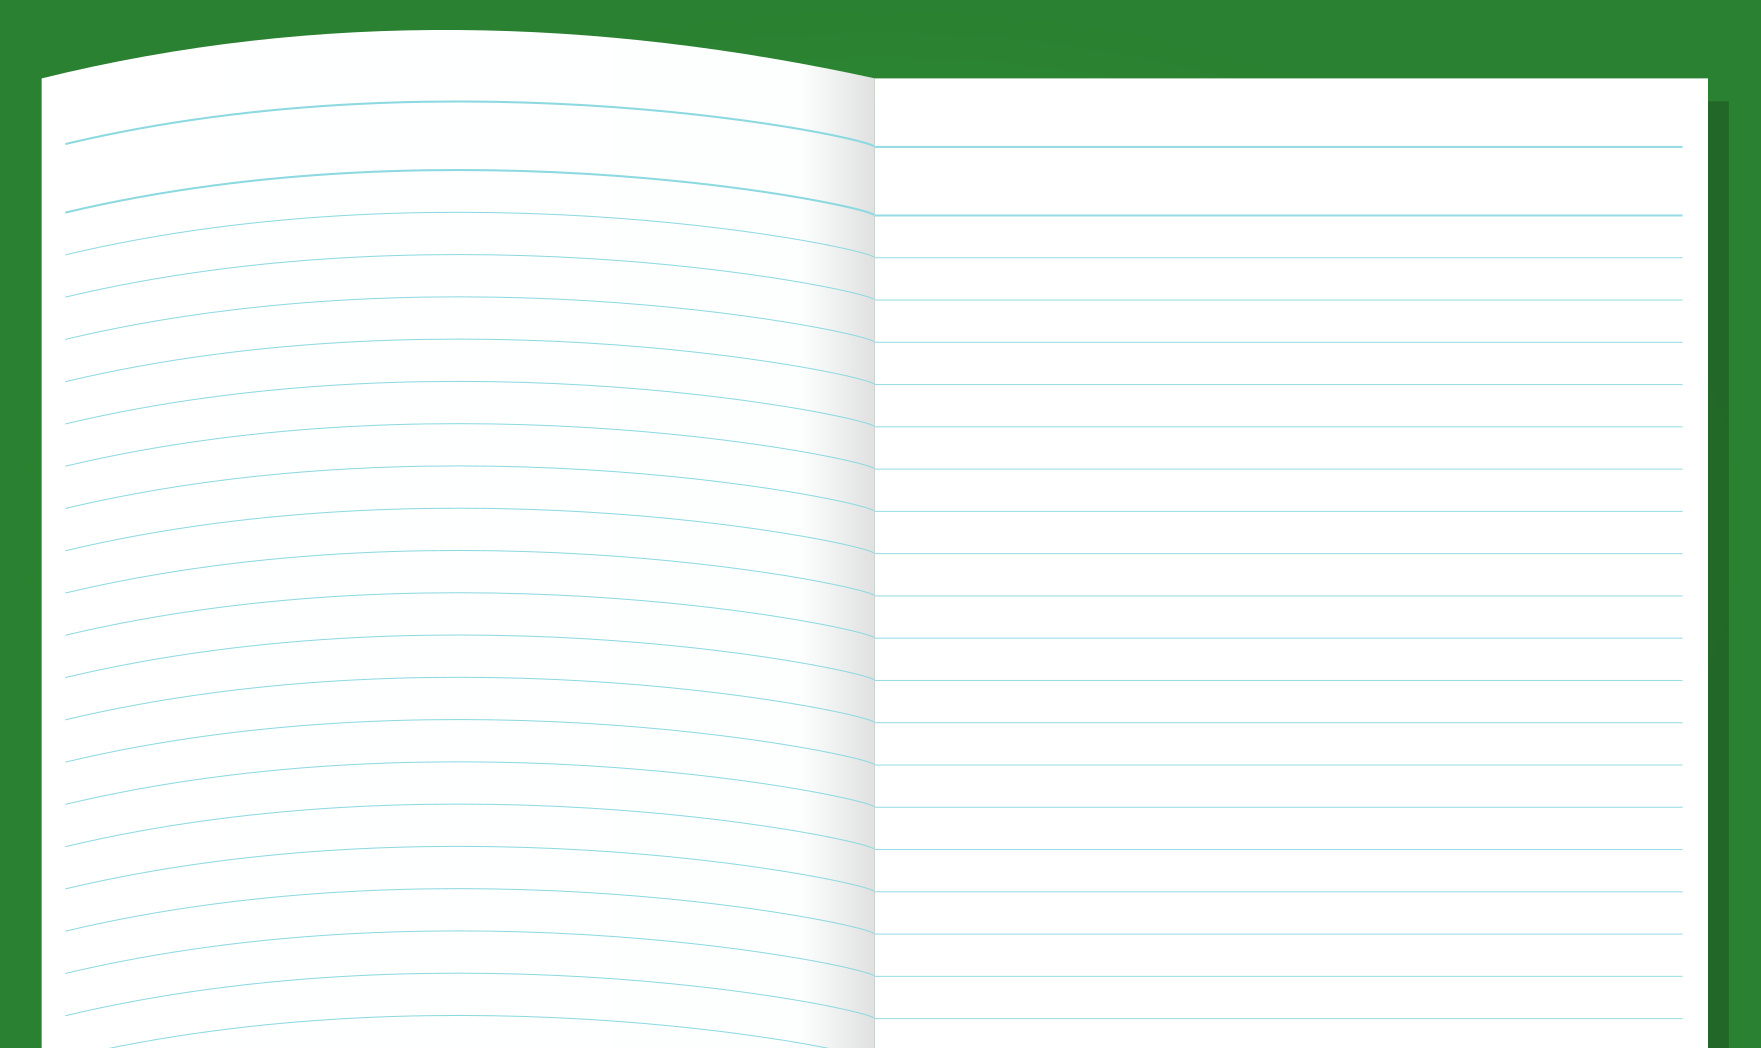
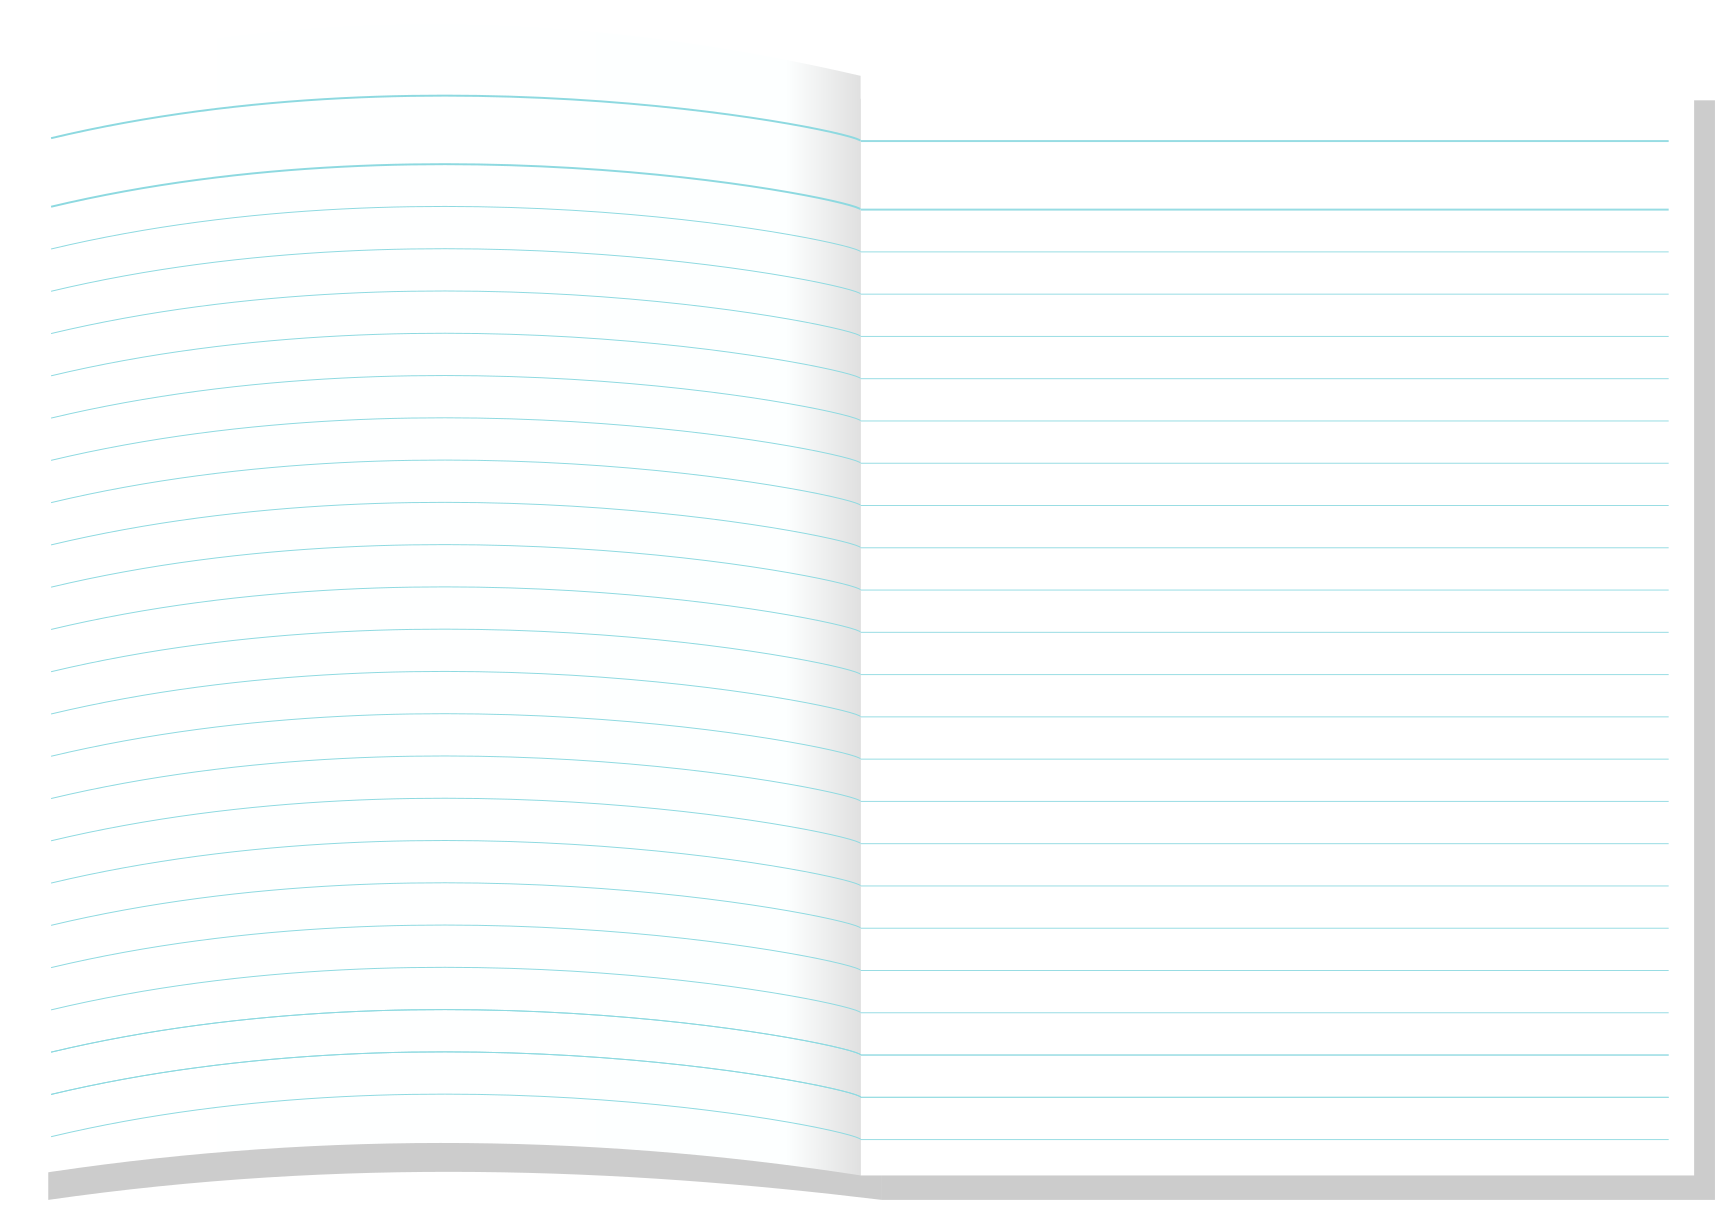
bityousei

diff --git a/popup.html b/popup.html
@@ -5,10 +5,11 @@
     <script type="text/javascript" src="jquery.min.js"></script>
     <style>
         body{
-            padding: 10% 5% 0 5%;
-            background-color: black;
+            padding: 5%;
+            background-color: green;
             background-image:url("source/note.png");
-            background-size: 100vw 100vh;
+            background-size: cover;
+            background-repeat: no-repeat;
             text-align: center;
         }
 

diff --git a/myStyle.css b/myStyle.css
@@ -1,5 +1,6 @@
 .ggttmmLayout{
     width:100%;
+    display:inline-block;
 }
 
 .myForm{
@@ -15,6 +16,7 @@ img.openMemo{
 }
 
 .myText{
+    display: inline-block;
     border:none;
     outline: none;
     background: #f0ff98;
